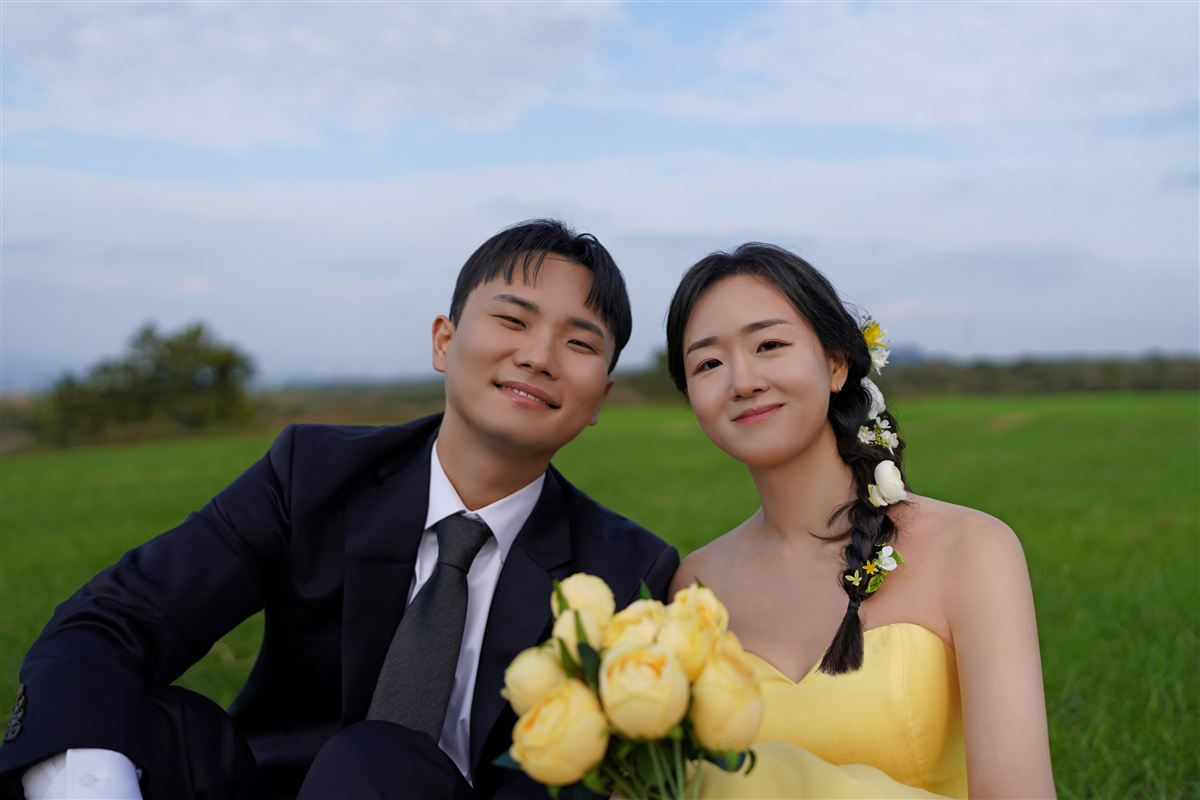
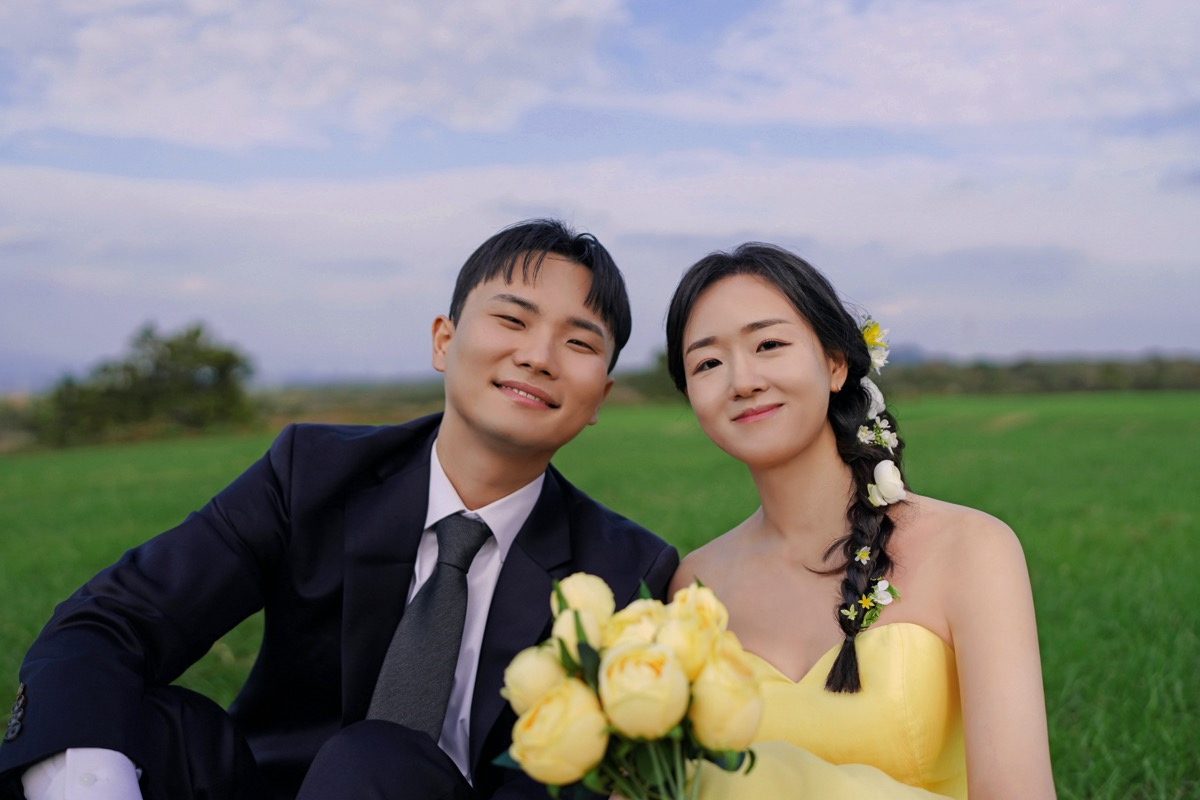
갤러리 이미지 색감 보정본 업데이트 및 썸네일 재생성
- E_*.jpg 파일 전체 색감 보정본으로 교체 (34개 파일)
- E_S01711 삭제, E_S01488 추가
- hero 이미지 업데이트 (E_S01858 보정본)
- og_thumbnail.jpg, kakao_thumbnail.jpeg를 E_S01405에서 재생성
- script.js, index.html 파일명 참조 업데이트

diff --git a/script.js b/script.js
@@ -71,15 +71,15 @@ weekDays.forEach((d, i) => {
 
 // 갤러리 이미지 목록 (파일명 업데이트)
 const imageList = [
-  'gallery/E_S00025-1(최종).jpeg', 'gallery/E_S00060-1(재).jpg', 'gallery/E_S00152-1(재).jpg', 'gallery/E_S00310-1(재).jpg',
-  'gallery/E_S00347-1(재).jpg', 'gallery/E_S00480-1(재).jpg', 'gallery/E_S00518-1(최종).jpeg', 'gallery/E_S00566-1.jpg',
-  'gallery/E_S00609-1.jpg', 'gallery/E_S00673-1(재).jpg', 'gallery/E_S00794-1.jpg', 'gallery/E_S00944-1.jpg',
-  'gallery/E_S01005-1.jpg', 'gallery/E_S01108-1(재).jpg', 'gallery/E_S01142-1.jpg', 'gallery/E_S01171-1.jpg',
-  'gallery/E_S01187-1.jpg', 'gallery/E_S01271-1(재).jpg', 'gallery/E_S01288-1(최종).jpeg', 'gallery/E_S01405-1(최종).jpeg',
-  'gallery/E_S01528-1(재).jpg', 'gallery/E_S01560-1(재).jpg', 'gallery/E_S01605-1.jpg', 'gallery/E_S01635-1.jpg',
-  'gallery/E_S01644-1.jpg', 'gallery/E_S01711-1(재).jpg', 'gallery/E_S01742-1.jpg', 'gallery/E_S01754-1(재).jpg',
-  'gallery/E_S01803-1.jpg', 'gallery/E_S01822-1.jpg', 'gallery/E_S01844-1.jpg', 'gallery/E_S01858-1(재).jpg',
-  'gallery/E_S01917-1.jpg', 'gallery/E_S01950-1.jpg',
+  'gallery/E_S00025-1(재3)-2-2.jpg', 'gallery/E_S00060-1(재)-2-2.jpg', 'gallery/E_S00152-1(재2)-2-2.jpg', 'gallery/E_S00310-1(재2)-2-2.jpg',
+  'gallery/E_S00347-1(재)-2-2.jpg', 'gallery/E_S00480-1(재)-2-2.jpg', 'gallery/E_S00518-1(재4)-2-2.jpg', 'gallery/E_S00566-1-2-2.jpg',
+  'gallery/E_S00609-1-2-2.jpg', 'gallery/E_S00673-1(재)-2-2.jpg', 'gallery/E_S00794-1-2-2.jpg', 'gallery/E_S00944-1-2-2.jpg',
+  'gallery/E_S01005-1-2-2.jpg', 'gallery/E_S01108-1(재1)-2-2.jpg', 'gallery/E_S01142-1-2-2.jpg', 'gallery/E_S01171-1-2-2.jpg',
+  'gallery/E_S01187-1-2-2.jpg', 'gallery/E_S01271-1(재)-2-2.jpg', 'gallery/E_S01288-1(재3)-2-2.jpg', 'gallery/E_S01405-1(재4)-2-2.jpg',
+  'gallery/E_S01488-1-2-2.jpg', 'gallery/E_S01528-1(재1)-2-2.jpg', 'gallery/E_S01560-1(재)-2-2.jpg', 'gallery/E_S01605-1-2-2.jpg',
+  'gallery/E_S01635-1-2-2.jpg', 'gallery/E_S01644-1-2-2.jpg', 'gallery/E_S01742-1-2-2.jpg', 'gallery/E_S01754-1(재)-2-2.jpg',
+  'gallery/E_S01803-1-2-2.jpg', 'gallery/E_S01822-1-2-2.jpg', 'gallery/E_S01844-1-2-2.jpg', 'gallery/E_S01858-1(재)-2-2.jpg',
+  'gallery/E_S01917-1-2-2.jpg', 'gallery/E_S01950-1-2-2.jpg',
   'gallery/KakaoTalk_Photo_2026-01-31-16-56-05 002.jpg', 'gallery/KakaoTalk_Photo_2026-01-31-16-56-06 003.jpg',
   'gallery/KakaoTalk_Photo_2026-01-31-16-56-07 004.jpg', 'gallery/KakaoTalk_Photo_2026-01-31-16-56-09 006.jpg',
   'gallery/KakaoTalk_Photo_2026-01-31-16-56-11 007.jpg', 'gallery/KakaoTalk_Photo_2026-01-31-16-56-12 008.jpg',

diff --git a/index.html b/index.html
@@ -47,7 +47,7 @@
 
   <header class="hero">
     <div class="hero-background">
-      <img src="gallery/E_S01858-1(재).jpg" alt="커플 이미지" class="lazyload">
+      <img src="gallery/E_S01858-1(재)-2-2.jpg" alt="커플 이미지" class="lazyload">
     </div>
     <div class="hero-overlay">
       <h1 class="hero-text" id="typing-text"></h1>
